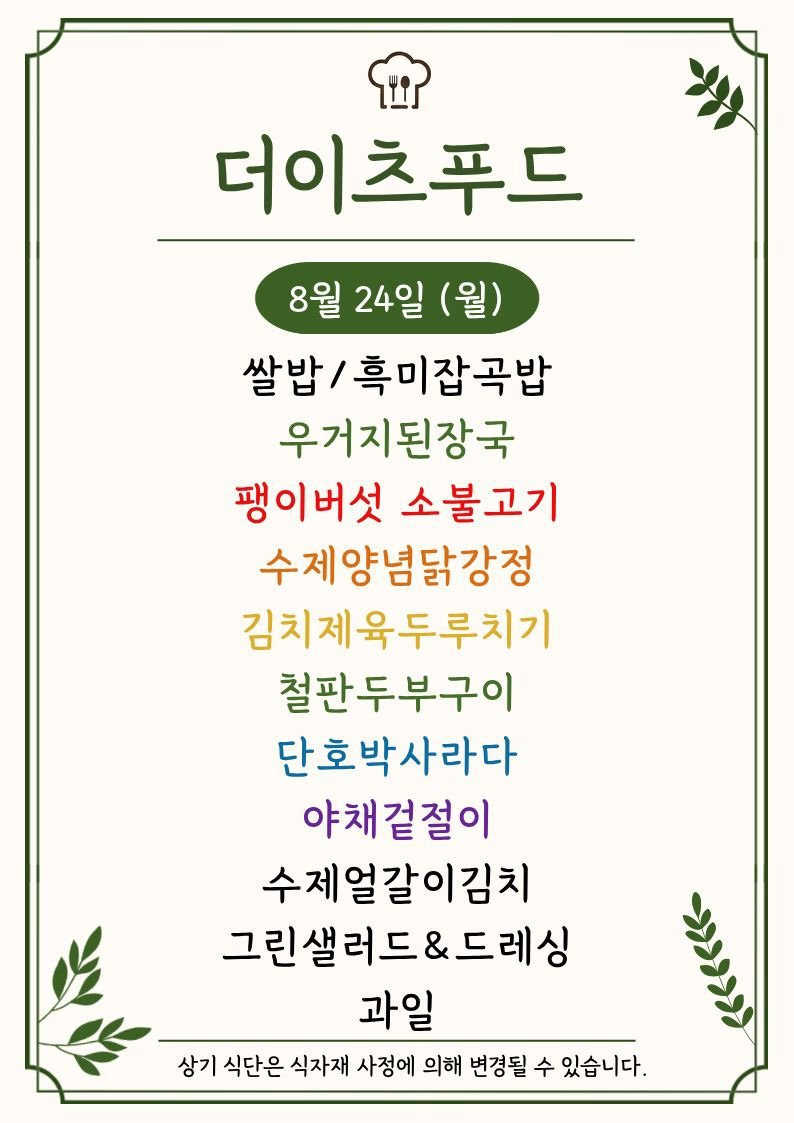
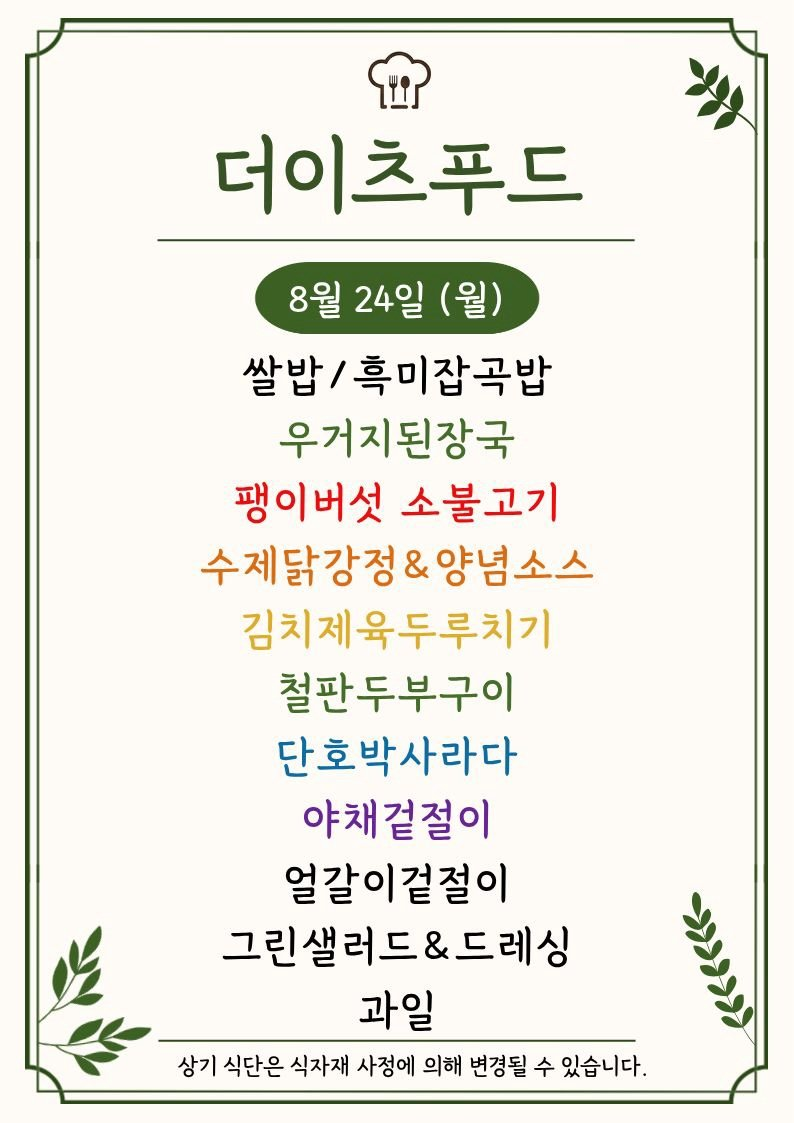
Update menu board assets

Changed region(s): [[0.2418, 0.4675, 0.7557, 0.5298], [0.3325, 0.748, 0.665, 0.8103]]

diff --git a/guro-menu/index.html b/guro-menu/index.html
@@ -32,7 +32,7 @@
   </header>
   <section class="meta">
     <div><small>기준 날짜</small><strong>2026년 8월 24일 월요일</strong></div>
-    <div><small>최종 갱신</small><strong>2026-08-24 11:18:06</strong></div>
+    <div><small>최종 갱신</small><strong>2026-08-24 11:33:22</strong></div>
     <div><small>등록 식당</small><strong>5개</strong></div>
   </section>
   <div class="notice">공개 카카오 채널의 메뉴 이미지를 자동 수집하고 OCR로 정리합니다. 텍스트에 오타가 있을 수 있으니 식단 이미지를 함께 확인해 주세요.</div>
@@ -75,8 +75,8 @@
           <a class="channel" href="https://pf.kakao.com/_xeVwxnn" target="_blank" rel="noopener">원본 채널</a>
         </div>
         <img class="menu-image" src="./images/the-eats-food.png" alt="더이츠푸드 식단 이미지" loading="lazy">
-        
-        <ul><li>쌀밥/흑미잡곡밥</li><li>우거지된장국</li><li>팽이버섯 소불고기</li><li>수제양념닭강정</li><li>김치제유두루치기</li><li>철판두부구이</li><li>단호박사라다</li><li>야채겉절이</li><li>수제얼갈이김치 0</li><li>그린샐러드&amp;드레싱 %</li><li>과일</li></ul>
+        <p class="message">최신 공개 식단 이미지의 텍스트입니다. 날짜는 원본 이미지를 확인해 주세요.</p>
+        <ul><li>~ 으&gt; &gt; 본</li><li>더 이</li><li>82) 24% (월)</li><li>쌀밥/흑미잡곡밥</li><li>우거지된장국</li><li>팽이버섯 소불고기</li><li>수제닭강정&amp;양념소스</li><li>김치제육두루치기</li><li>철판두부구이</li><li>단호박사라다</li><li>야채겉절이</li><li>얼갈이겉절이 0</li><li>그린샐러드&amp;드레싱 Y</li><li>과일</li></ul>
       </article>
 
       <article class="restaurant-card">

diff --git a/menu-today/index.html b/menu-today/index.html
@@ -209,7 +209,7 @@
 
     <section class="meta-bar">
       <div class="meta-card"><div class="meta-label">기준 날짜</div><div class="meta-value">2026년 8월 24일 월요일</div></div>
-      <div class="meta-card"><div class="meta-label">최종 가져온 시간</div><div class="meta-value">2026-08-24 11:17:53</div></div>
+      <div class="meta-card"><div class="meta-label">최종 가져온 시간</div><div class="meta-value">2026-08-24 11:33:09</div></div>
       <div class="meta-card"><div class="meta-label">확인 완료</div><div class="meta-value">9개 식당</div></div>
       <div class="meta-card"><div class="meta-label">준비중</div><div class="meta-value">3개 채널</div></div>
     </section>
